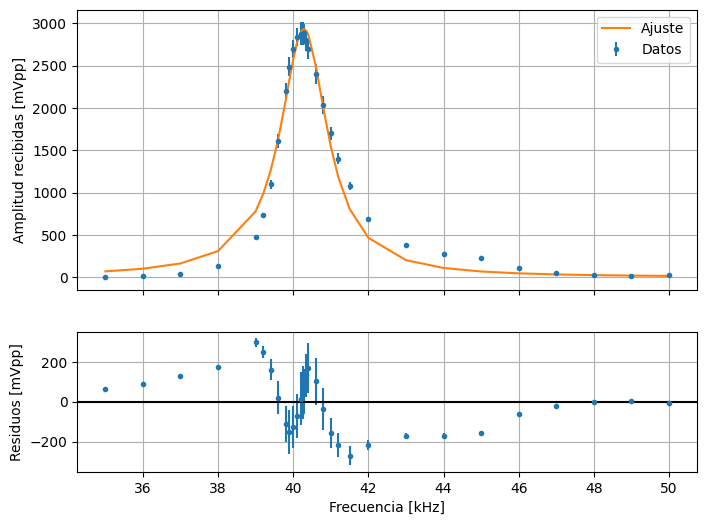
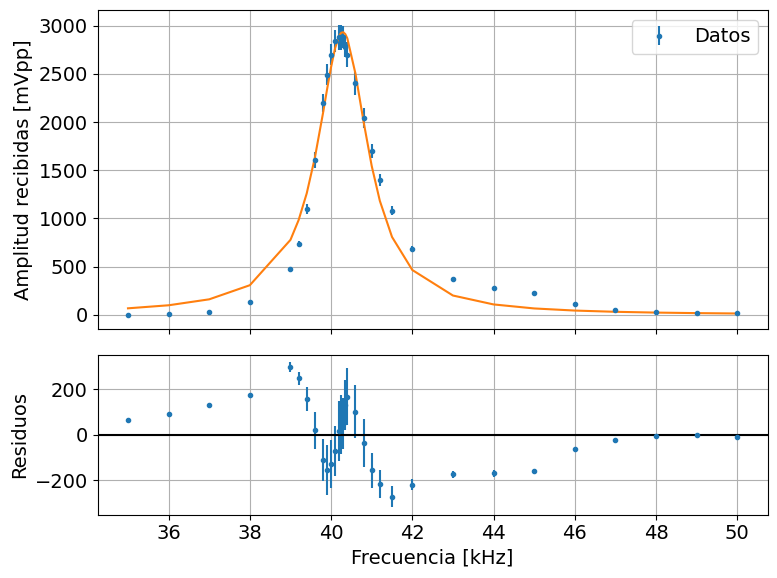
2024-05-28 07:10

Changed region(s): [[0.0, 0.0, 0.9958, 0.579], [0.0, 0.6095, 0.9958, 0.9752]]

diff --git a/common/plot.py b/common/plot.py
@@ -1,6 +1,11 @@
-import matplotlib.pyplot as plt
 import logging
 import numpy as np
+import matplotlib.pyplot as plt
+from matplotlib import figure  # For type 'Figure'
+from matplotlib.lines import Line2D
+from matplotlib.widgets import Slider
+from typing import Any
+
 
 logger = logging.getLogger(__name__)
 
@@ -8,13 +13,18 @@ opt_show_plots = False
 
 plt.rcParams.update({"font.size": 14})
 
+Slider = Slider
+
+
 def save(*args, **kwargs):
-    logger.info(f"Saving figure '{args[0]}'.")
     plt.tight_layout()
-    plt.savefig(*args, bbox_inches='tight', **kwargs)
+
+    if args != ():
+        logger.info(f"Saving figure '{args[0]}'.")
+        plt.savefig(*args, bbox_inches='tight', **kwargs)
 
     if opt_show_plots:
-        logger.info(f"Showing plot por '{args[0]}'.")
+        logger.info("Showing plot")
         plt.show()
 
     plt.close()
@@ -50,7 +60,7 @@ def data(
     ylabel: str = None,
     figsize=(8, 6),
     **kwargs
-):
+) -> tuple[figure.Figure, Any]:
     """
     Plot data with errors.
     """
@@ -60,7 +70,7 @@ def data(
         *kwargs
     )
 
-    ax.errorbar(x_data, y_data, yerr=y_error, fmt="o", label=label)
+    lines = ax.errorbar(x_data, y_data, yerr=y_error, fmt="o", label=label)
 
     ax.set(xlabel=xlabel if xlabel is not None else x_data.name)
     ax.set(ylabel=ylabel if ylabel is not None else y_data.name)
@@ -69,7 +79,7 @@ def data(
     if label is not None:
         ax.legend()
 
-    return
+    return fig, ax
 
 
 def data_polar(
@@ -121,6 +131,7 @@ def data_and_fit(
     y_data,
     y_error,
     y_fit,
+    x_error=None,
     title: str = None,
     label: str = "Datos",
     fitlabel: str = None,
@@ -148,6 +159,7 @@ def data_and_fit(
         x_data,
         y_data,
         yerr=y_error,
+        xerr=x_error,
         fmt=".",
         label=label
     )

diff --git a/4 - óptica/polarización/src/pol_fit.py b/4 - óptica/polarización/src/pol_fit.py
@@ -1,0 +1,43 @@
+from common import plot, fit
+from pathlib import Path
+import numpy as np
+import pandas as pd
+import logging
+import sys
+from src import pol_cos2
+
+logger = logging.getLogger("MAIN")
+
+
+def main(path: Path, angle, volt, error) -> None:
+    csv_file = path/f"results/{pol_cos2.__name__}.csv"
+    if not csv_file.is_file:
+        logger.error(f"File {csv_file} does not exist.")
+
+        sys.exit(1)
+
+    df_fit = pd.read_csv(csv_file)
+    theta_0 = df_fit["theta_0"].iloc[0]
+    theta_0 = float(theta_0.split(" ")[0])
+
+    x = np.cos(angle - theta_0) ** 2
+
+    f = fit.f.linear
+
+    fit_found, _ = fit.utils.fitnsave(
+        path/f"results/{__name__}.csv",
+        f,
+        x,
+        volt,
+        yerr=error
+    )
+
+    plot.data_and_fit(
+        np.cos(angle - theta_0) ** 2,
+        volt,
+        error,
+        fit_found,
+        x_error=1
+    )
+
+    plot.save()

diff --git a/4 - óptica/polarización/src/pol.py b/4 - óptica/polarización/src/pol.py
@@ -1,0 +1,32 @@
+from common import data
+from pathlib import Path
+import numpy as np
+
+CELL_RANGE = "A2:G21"
+WORKSHEET = "DETECTOR"
+
+def main(path: Path, args: list[str]) -> None:
+    # Find dataframe
+    df = data.find(
+        path,
+        __name__,
+        wsname=WORKSHEET,
+        cellrange=CELL_RANGE
+    )
+
+    angle = df["Ángulo rotado [deg]"] * np.pi / 180
+    volt = df["Voltaje [V]"]
+    error = df["Error [V]"]
+
+    match args:
+        case "cos2":
+            from src import pol_cos2
+            pol_cos2.main(path, angle, volt, error)
+
+        case "fit":
+            from src import pol_fit
+            pol_fit.main(path, angle, volt, error)
+
+        case "slider":
+            from src import pol_slider
+            pol_slider.main(angle, volt, error)

diff --git a/4 - óptica/polarización/src/pol_slider.py b/4 - óptica/polarización/src/pol_slider.py
@@ -1,0 +1,42 @@
+from common import plot
+import matplotlib.pyplot as plt
+import numpy as np
+
+
+def slider_update(line, fig, angles, val):
+    line.set_ydata(np.cos(angles - val) ** 2)
+    fig.canvas.draw_idle()
+
+
+def main(angle, volt, error) -> None:
+    fig, ax = plt.subplots(
+        figsize=(8, 6)
+    )
+
+    line, = ax.plot(
+        angle,
+        np.cos(angle) ** 2,
+        'o'
+    )
+
+    ax.plot(
+        angle,
+        volt,
+        '.'
+    )
+
+    ax_slider = fig.add_axes([0.25, 0.1, 0.65, 0.03])
+
+    slider = plot.Slider(
+        ax=ax_slider,
+        label="Slider",
+        valmin=0,
+        valmax=2 * np.pi,
+        valinit=0
+    )
+
+    slider.on_changed(
+        lambda val: slider_update(line, fig, angle, val)
+    )
+
+    plot.save()

diff --git a/4 - óptica/polarización/main.py b/4 - óptica/polarización/main.py
@@ -1,0 +1,32 @@
+from common import cli_args
+from pathlib import Path
+import logging
+import sys
+
+logger = logging.getLogger(__name__)
+
+
+def main() -> None:
+    args = cli_args.parse(sys.argv[1:])
+
+    # Absolute path of the directory of this script
+    base_path = Path(__file__).resolve().parent
+
+    arg = args[1] if len(args) > 1 else ""
+
+    # What to do
+    match args[0]:
+        case "pol":
+            from src import pol
+            pol.main(base_path, arg)
+
+        case "haz":
+            from src import haz
+            haz.main(base_path, arg)
+
+        case _:
+            logger.error("Invalid argument")
+
+
+if __name__ == "__main__":
+    main()

diff --git a/1 - ultrasonido/c2/src/resonancia.py b/1 - ultrasonido/c2/src/resonancia.py
@@ -46,15 +46,22 @@ def main(path: Path) -> None:
         }
     )
 
-    # Plot result
-    fit_found = f.f(freq_sent, *param_opt)
-    plot.data_and_fit(
+    plot.data(
         freq_sent,
         freq_recv,
         error,
-        fit_found,
-        xlabel=cols[0],
-        ylabel=cols[1]
+        figsize=(10, 8)
     )
+
+    # Plot result
+    # fit_found = f.f(freq_sent, *param_opt)
+    # plot.data_and_fit(
+    #     freq_sent,
+    #     freq_recv,
+    #     error,
+    #     fit_found,
+    #     xlabel=cols[0],
+    #     ylabel=cols[1]
+    # )
 
     plot.save(path/f"plots/{__name__}.png")

diff --git a/4 - óptica/polarización/src/pol_cos2.py b/4 - óptica/polarización/src/pol_cos2.py
@@ -1,0 +1,25 @@
+from common import plot, fit
+from pathlib import Path
+import numpy as np
+
+
+def main(path: Path, angle, volt, error) -> None:
+    f = fit.f.cos_sq
+
+    volt_fit, (p_opt, _) = fit.utils.fitnsave(
+        path/f"results/{__name__}.csv",
+        f,
+        angle,
+        volt,
+        p0=[1, -10 * np.pi / 180],
+        yerr=error
+    )
+
+    plot.data_and_fit(
+        angle,
+        volt,
+        error,
+        volt_fit,
+    )
+
+    plot.save(path/f"plots/{__name__}.png")

diff --git a/1 - ultrasonido/c2/main.py b/1 - ultrasonido/c2/main.py
@@ -15,8 +15,8 @@ def main() -> None:
     # What to do
     match arg[0]:
         case "resonancia":
-            from src import interferencia
-            interferencia.main(base_path)
+            from src import resonancia
+            resonancia.main(base_path)
 
         case "amplitud":
             from src import amplitud

diff --git a/common/fit/f.py b/common/fit/f.py
@@ -86,3 +86,11 @@ fabry_perot2 = Function(
     _fabry_perot,
     ["x_0", "a", "R", "alpha", "lambda"]
 )
+
+
+cos_sq = Function(
+    lambda theta, A, theta_0:
+        A * np.cos(theta - theta_0) ** 2,
+    ["A", "theta_0"],
+    r"$A \cos^2(\theta - \theta_0)$"
+)

diff --git a/a.py b/a.py
@@ -1,0 +1,14 @@
+import matplotlib.pyplot as plt
+import numpy as np
+
+fig, ax = plt.subplots(figsize=(8, 8))
+
+x = np.linspace(0, 1, 100)
+y = np.linspace(0, 3, 100)
+
+ax.plot(x, y)
+
+v = [1, 20, 50, 77]
+
+ax.vlines(v, 0, 1, color="black")
+plt.show()

diff --git a/1 - ultrasonido/c3/src/resonancia.py b/1 - ultrasonido/c3/src/resonancia.py
@@ -40,7 +40,7 @@ def main(path: Path) -> None:
         freq_sent[3:-3],
         freq_recv[3:-3] / 1000,
         error[3:-3] / 1000,
-        figsize=(8, 5),
+        figsize=(10, 8),
         ylabel="Amplitud [Vpp]"
     )
 
